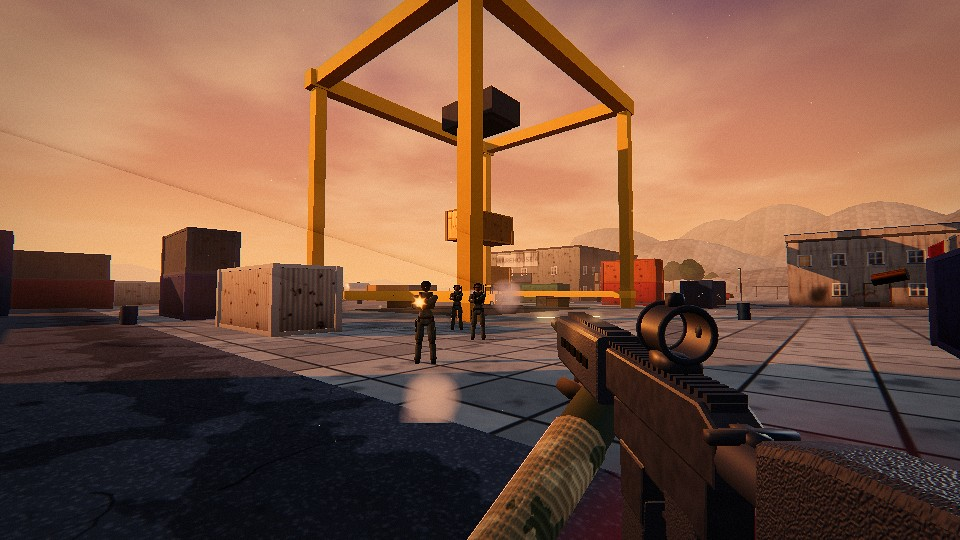
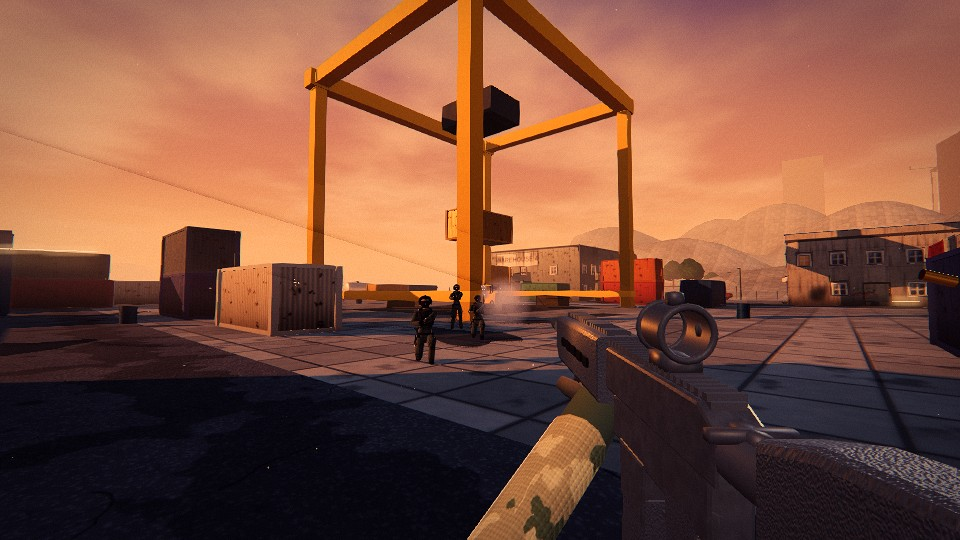
FRONTLINE OPS realism pass 2: per-map lighting and grading, contact shadows, skylines, set dressing, lit viewmodel, casings settle on roofs
Claude-Session: https://claude.ai/code/session_01Gnp6614uCdyBymSEsrLhJS

diff --git a/frontline/dress.js b/frontline/dress.js
@@ -1,0 +1,103 @@
+// FRONTLINE OPS — set dressing and atmosphere for MEDIUM and HIGH (LOW never builds any of this).
+// Everything here is visual only (no collision), generated from the level layout with its own seeded
+// random stream, and drawn as a handful of instanced meshes: window surrounds, balconies, wall AC units,
+// downpipes, blade signs, overhead cables, street debris, weeds / snow drifts, puddles, potted plants,
+// distant skyline silhouettes and two layered haze rings. Also bakes the ground contact-shadow map.
+import * as THREE from '../vendor/three.module.min.js';
+import {merge,M4} from './world.js';
+const V=THREE.Vector3,PI=Math.PI;
+const BX=(w,h,d)=>new THREE.BoxGeometry(w,h,d),CY=(rt,rb,h,s=8)=>new THREE.CylinderGeometry(rt,rb,h,s,1);
+const std=o=>new THREE.MeshStandardMaterial(o);
+const ROT={n:PI,s:0,w:-PI/2,e:PI/2},NRM={n:[0,-1],s:[0,1],w:[-1,0],e:[1,0]};
+
+/* ---------- ground contact shadows: blurred footprints of everything standing on the ground ---------- */
+export function contactMap(L){const S=512,ext=L.half+6,k=S/(ext*2),c=document.createElement('canvas');c.width=c.height=S;const x=c.getContext('2d');
+ x.fillStyle='#fff';x.fillRect(0,0,S,S);const P=(v)=>(v+ext)*k;
+ const draw=(blur,grow,alpha)=>{x.filter=`blur(${blur}px)`;for(const b of L.boxes){if(!b.solid&&!b.ao&&b.mat!=='sandbag')continue;if(b.y0>.6||b.y1-b.y0<.25||b.mat==='fence'||b.mat==='lamp')continue;
+   const h=Math.min(1,(b.y1-b.y0)/2.2);x.fillStyle=`rgba(0,0,0,${alpha*(.45+.55*h)})`;x.fillRect(P(b.x0-grow),P(b.z0-grow),(b.x1-b.x0+grow*2)*k,(b.z1-b.z0+grow*2)*k);}
+  for(const p of L.props){if(p.y>.3)continue;const r=({truck:2.2,tanker:2.2,jeep:1.5,car:1.4,pickup:1.6,wreck:1.4,forklift:1,fueltank:1.6,dumpster:1,gen:1,crateL:.9,stall:1.2,palm:.5,tree:.6,pine:.6,radome:5,cable:.8})[p.kind];
+   if(!r)continue;x.fillStyle=`rgba(0,0,0,${alpha*.7})`;x.beginPath();x.ellipse(P(p.x),P(p.z),(r+grow)*k*(p.s||1),(r*(p.kind.match(/truck|tanker|jeep|car|pickup|wreck/)?2:1)+grow)*k*(p.s||1),-(p.rot||0),0,7);x.fill();}};
+ draw(10,.5,.32);draw(3,.08,.42);x.filter='none';
+ const t=new THREE.CanvasTexture(c);t.colorSpace=THREE.NoColorSpace;t.wrapS=t.wrapT=THREE.ClampToEdgeWrapping;t.userData={ext};return t;}
+// patch a material so its indirect light (and a little direct) is occluded by the contact map
+export function withContact(m,tex,k=1){const prev=m.onBeforeCompile;m.onBeforeCompile=(s,r)=>{if(prev)prev(s,r);s.uniforms.uCt={value:tex};s.uniforms.uCtE={value:tex.userData.ext};s.uniforms.uCtK={value:k};
+  s.vertexShader=s.vertexShader.replace('#include <common>','#include <common>\nvarying vec2 vCtP;').replace('#include <worldpos_vertex>','#include <worldpos_vertex>\n{vec4 cw=modelMatrix*vec4(transformed,1.);vCtP=cw.xz;}');
+  s.fragmentShader=s.fragmentShader.replace('#include <common>','#include <common>\nvarying vec2 vCtP;uniform sampler2D uCt;uniform float uCtE,uCtK;')
+   .replace('#include <aomap_fragment>',`#include <aomap_fragment>
+ {vec2 cu=(vCtP+uCtE)/(2.*uCtE);float ins=step(0.,cu.x)*step(cu.x,1.)*step(0.,cu.y)*step(cu.y,1.);float ct=mix(1.,texture2D(uCt,vec2(cu.x,1.-cu.y)).r,ins*uCtK);
+  reflectedLight.indirectDiffuse*=ct;reflectedLight.indirectSpecular*=ct;reflectedLight.directDiffuse*=mix(1.,ct,.45);}`);};
+ const pk=m.customProgramCacheKey?m.customProgramCacheKey.bind(m):()=>'';m.customProgramCacheKey=()=>pk()+'ct';return m;}
+
+/* ---------- the dressing itself ---------- */
+export function buildDressing(L,TX,q,look){const G=new THREE.Group();let s=(L._s||7)*31+17;const rnd=()=>{s=(s*16807)%2147483647;return s/2147483647;};
+ const id=L.id,snow=id==='northwatch',desert=id==='sandgate',town=id==='oldquarter',port=id==='harbor';const hi=q>=2;
+ const inst=(geo,mat,list,cast=true)=>{if(!list.length)return null;const im=new THREE.InstancedMesh(geo,mat,list.length),c=new THREE.Color();list.forEach((p,i)=>{im.setMatrixAt(i,p.m);if(p.c!=null)im.setColorAt(i,c.set(p.c));else im.setColorAt(i,c.set(0xffffff));});im.castShadow=cast;im.receiveShadow=true;G.add(im);return im;};
+ // wall frame: local +z is out of the wall, origin on the wall centre line at the window's sill height
+ const onWall=(w,dx,dy,dz,rx=0,ry=0,rz=0,sx=1,sy=1,sz=1)=>{const r=ROT[w.side];const m=M4(w.x,w.y,w.z,0,r,0);return m.multiply(M4(dx,dy,dz,rx,ry,rz,sx,sy,sz));};
+ /* window surrounds: jambs + lintel + inner reveal so every opening reads with depth */
+ const trimC=desert?[0xe8dcc4,0xd8c8a8,0x8a6a4a]:town?[0xf2ece0,0x5a4030,0x3a4a3a,0xe8e0d0]:port?[0x8a9098,0xd8d8d0]:[0xe8ecf0,0x6a7078];
+ const frame=merge([{geo:BX(.11,1.62,.13),m:M4(-.68,.7,.21)},{geo:BX(.11,1.62,.13),m:M4(.68,.7,.21)},{geo:BX(1.6,.14,.15),m:M4(0,1.5,.22)},{geo:BX(1.3,.05,.06),m:M4(0,.02,.2)}]);
+ const fl=[],bal=[],acs=[],sigs=[];
+ for(const w of L.windows){fl.push({m:onWall(w,0,0,0),c:trimC[(Math.abs(w.x*7+w.z*13)|0)%trimC.length]});
+  const r=rnd();if(w.y>3&&(desert||town)&&r<.22)bal.push({m:onWall(w,0,-.06,0),c:town?0x2a2c2e:0x4a3a2c});
+  else if(!snow&&r>.82)acs.push({m:onWall(w,(rnd()-.5)*.3,w.y>3?-.75:-.85,0),c:0xd8d8d2});}
+ inst(frame,std({map:TX.concrete.map,roughness:.85,color:0xffffff}),fl,true);
+ if(bal.length){const bp=[{geo:BX(2,.1,.9),m:M4(0,0,.6)},{geo:BX(2,.05,.05),m:M4(0,1.02,1.03)},{geo:BX(.05,.05,.86),m:M4(-.98,1.02,.6)},{geo:BX(.05,.05,.86),m:M4(.98,1.02,.6)}];
+  for(let i=0;i<=12;i++)bp.push({geo:BX(.025,.97,.025),m:M4(-.97+i*1.94/12,.52,1.03)});for(const x of[-.97,.97])for(let i=1;i<4;i++)bp.push({geo:BX(.025,.97,.025),m:M4(x,.52,.2+i*.2)});
+  bp.push({geo:BX(.08,.12,.6),m:M4(-.8,-.1,.45,-.5)},{geo:BX(.08,.12,.6),m:M4(.8,-.1,.45,-.5)});inst(merge(bp),std({color:0xffffff,roughness:.55,metalness:.6}),bal,true);}
+ if(acs.length){const ap=[{geo:BX(.82,.56,.4),m:M4(0,0,.36)},{geo:new THREE.CylinderGeometry(.2,.2,.02,16),m:M4(.12,0,.565,PI/2),c:0x2a2a2a},{geo:BX(.06,.06,.4),m:M4(-.3,-.31,.32),c:0x555555},{geo:BX(.06,.06,.4),m:M4(.3,-.31,.32),c:0x555555},{geo:CY(.012,.012,1.2,4),m:M4(-.36,-.8,.2),c:0x9a9a9a}];
+  inst(merge(ap),std({map:TX.metal.map,roughness:.5,metalness:.35,vertexColors:true}),acs,true);}
+ /* per building: downpipes at corners, blade signs, wall-base debris and weeds/drifts, cables to the neighbour across the street */
+ const pipes=[],rubble=[],bags=[],planks=[],weeds=[],drifts=[],pots=[],puddles=[],wires=[];
+ for(const b of L.blds){const h=b.h;for(const[cx,cz,sx,sz]of[[b.x0,b.z0,-1,-1],[b.x1,b.z0,1,-1],[b.x0,b.z1,-1,1],[b.x1,b.z1,1,1]])if(rnd()<.55)pipes.push({m:M4(cx+sx*.22,0,cz+sz*.22,0,0,0,1,h+.2,1),c:port||snow?0x8a9096:0x9a8a78});
+  for(const side of['n','s','w','e']){const[nx,nz]=NRM[side],along=side==='n'||side==='s',a0=along?b.x0:b.z0,a1=along?b.x1:b.z1,fx=side==='w'?b.x0:side==='e'?b.x1:0,fz=side==='n'?b.z0:side==='s'?b.z1:0;
+   const at=(t,o)=>along?[t,fz+nz*o]:[fx+nx*o,t];
+   if(!snow&&h>3.5&&rnd()<.4){const t=a0+1.5+rnd()*(a1-a0-3),[x,z]=at(t,0);sigs.push({m:M4(x,2.95,z,0,ROT[side],0).multiply(M4(0,0,.15)),c:[0xc8402a,0x2a5a8a,0xe8c040,0x2a7a5a,0xe8e4d8][(rnd()*5)|0]});}
+   for(let t=a0+.6;t<a1-.6;t+=.7+rnd()*1.4){const o=.4+rnd()*.7,[x,z]=at(t,o);if(!L.free(x,z))continue;const r=rnd();
+    if(snow){if(r<.55)drifts.push({m:M4(x+nx*.1,0,z+nz*.1,0,rnd()*6,0,.6+rnd()*1.1,.18+rnd()*.25,.5+rnd()*.6)});continue;}
+    if(r<.3)rubble.push({m:M4(x,.04,z,rnd()*3,rnd()*6,rnd()*3,.12+rnd()*.22,.07+rnd()*.12,.12+rnd()*.2),c:[0xb8b0a4,0x8a8278,0xa89070,0x6a6058][(rnd()*4)|0]});
+    else if(r<.42){const k=.24+rnd()*.14;bags.push({m:M4(x,k*.6,z,0,rnd()*6,(rnd()-.5)*.4,k,k*.85,k*1.1),c:[0x1a1c1a,0x2a3a2a,0x3a3a3c,0x5a5040][(rnd()*4)|0]});}
+    else if(r<.5)planks.push({m:M4(x,.03+rnd()*.05,z,(rnd()-.5)*.15,rnd()*6,(rnd()-.5)*.2,.6+rnd()*.8,1,1),c:[0x8a6a48,0x6a5038,0xa8a49c][(rnd()*3)|0]});
+    else if(r<.85)weeds.push({m:M4(x+nx*-.15,0,z+nz*-.15,0,rnd()*3,0,.5+rnd()*.7,.5+rnd()*.9,.5+rnd()*.7)});
+    else if(r<.9&&(desert||town)&&o<.8)pots.push({m:M4(x,0,z,0,rnd()*6,0,.8+rnd()*.5,.8+rnd()*.5,.8+rnd()*.5),c:[0xa8583a,0xc87a4a,0x8a4a30,0xd8d0c0][(rnd()*4)|0]});}}
+  // cable to a neighbouring building across a street
+  if(rnd()<.6)for(const o of L.blds){if(o===b||wires.length>=(hi?40:24))break;const gx=Math.max(o.x0-b.x1,b.x0-o.x1),gz=Math.max(o.z0-b.z1,b.z0-o.z1);
+   if(Math.max(gx,gz)<4||Math.max(gx,gz)>16||Math.min(gx,gz)>-2)continue;if(rnd()<.6)continue;const y=Math.min(b.h,o.h)-.5-rnd()*1.2;
+   const ax=gx>gz?(o.x0>b.x1?b.x1:b.x0):Math.max(b.x0,o.x0)+rnd()*Math.max(.5,Math.min(b.x1,o.x1)-Math.max(b.x0,o.x0));const az=gx>gz?Math.max(b.z0,o.z0)+rnd()*Math.max(.5,Math.min(b.z1,o.z1)-Math.max(b.z0,o.z0)):(o.z0>b.z1?b.z1:b.z0);
+   const bx=gx>gz?(o.x0>b.x1?o.x0:o.x1):ax+(rnd()-.5)*3,bz=gx>gz?az+(rnd()-.5)*3:(o.z0>b.z1?o.z0:o.z1);wires.push([ax,y,az,bx,y+(rnd()-.5)*.6,bz]);}}
+ inst(CY(.055,.055,1,6).translate(0,.5,0),std({color:0xffffff,roughness:.45,metalness:.6}),pipes,true);
+ if(sigs.length){const sg=merge([{geo:BX(.05,.05,.7),m:M4(0,.42,.35),c:0x222222},{geo:BX(.06,.62,.9),m:M4(0,0,.6)},{geo:BX(.08,.66,.04),m:M4(0,0,1.06),c:0x2a2a2a}]);
+  const sm=std({map:TX.stripe,roughness:.6,vertexColors:true,emissive:look.lampsOn?0x553311:0});inst(sg,sm,sigs,true);}
+ const rock=new THREE.IcosahedronGeometry(1,0);
+ inst(rock,std({map:TX.concrete.map,normalMap:TX.concrete.normalMap,roughness:.95}),rubble,false);
+ inst(new THREE.SphereGeometry(1,8,6),std({color:0xffffff,roughness:.32,metalness:0}),bags,false);
+ inst(BX(1,.03,.14),std({map:TX.wood.map,roughness:.9}),planks,false);
+ if(weeds.length&&TX.grassCard){const g=new THREE.PlaneGeometry(.7,.5);g.translate(0,.24,0);const cross=merge([{geo:g},{geo:g.clone().rotateY(PI/2)}]);const n=cross.attributes.normal;for(let i=0;i<n.count;i++)n.setXYZ(i,0,1,0);
+  inst(cross,std({map:TX.grassCard,alphaTest:.45,side:THREE.DoubleSide,roughness:1,color:new THREE.Color(desert?0xb8a870:L.grassCol??0x9aa878)}),weeds,false);}
+ if(drifts.length)inst(new THREE.SphereGeometry(1,10,5,0,PI*2,0,PI/2),std({color:0xf2f6ff,roughness:.75}),drifts,false);
+ if(pots.length){inst(CY(.26,.18,.45,10).translate(0,.22,0),std({color:0xffffff,roughness:.8}),pots,true);inst(new THREE.IcosahedronGeometry(.42,1).scale(1,1.1,1).translate(0,.75,0),std({map:TX.leaf,color:desert?0x7a9a4a:0x5a8a4a,roughness:.9}),pots.map(p=>({m:p.m})),true);}
+ /* puddles: wet patches on the street (town after rain, harbour, slush in the snow) */
+ if(!desert){const nP=hi?34:20;for(let i=0;i<nP*4&&puddles.length<nP;i++){const x=(rnd()*2-1)*L.half*.9,z=(rnd()*2-1)*L.half*.9;if(!L.free(x,z)||!L.free(x+1.5,z)||!L.free(x-1.5,z))continue;puddles.push({m:M4(x,.05+i*.0001,z,-PI/2,0,rnd()*6,1.2+rnd()*2.4,.8+rnd()*1.6,1)});}
+  const pg=new THREE.CircleGeometry(1,20);const pp=pg.attributes.position;for(let i=1;i<pp.count;i++){const a=Math.atan2(pp.getY(i),pp.getX(i)),r=1+.22*Math.sin(a*3+1)+.12*Math.sin(a*5+2);pp.setXY(i,pp.getX(i)*r,pp.getY(i)*r);}
+  const pm=std({color:snow?0x6a7480:0x2a2c30,roughness:.04,metalness:0,transparent:true,opacity:snow?.55:.78,depthWrite:false,polygonOffset:true,polygonOffsetFactor:-4,envMapIntensity:1.6});
+  const im=inst(pg,pm,puddles,false);if(im)im.renderOrder=1;}
+ /* overhead cables between buildings */
+ if(wires.length){const parts=[];for(const[ax,ay,az,bx,by,bz]of wires){const pts=[];for(let i=0;i<=10;i++){const t=i/10;pts.push(new V(ax+(bx-ax)*t,ay+(by-ay)*t-Math.sin(t*PI)*(.5+Math.hypot(bx-ax,bz-az)*.04),az+(bz-az)*t));}
+   parts.push({geo:new THREE.TubeGeometry(new THREE.CatmullRomCurve3(pts),12,.016,4,false)});}const me=new THREE.Mesh(merge(parts),std({color:0x161616,roughness:.6}));me.castShadow=hi;G.add(me);}
+ /* distant skyline silhouettes past the terrain, sat on the terrain height */
+ const sk=[],tY=L.tY||(()=>0);const ring=(n,r0,r1,fn)=>{for(let i=0;i<n;i++){const a=rnd()*PI*2,r=r0+rnd()*(r1-r0),x=Math.cos(a)*r,z=Math.sin(a)*r;if(L.terrain&&L.terrain.seaSide&&L.terrain.seaSide(x,z))continue;fn(x,tY(x,z)-1,z,a);}};
+ if(desert){ring(80,210,320,(x,y,z,a)=>{const w=8+rnd()*16,h=4+rnd()*8;sk.push({geo:BX(w,h,8+rnd()*12),m:M4(x,y+h/2,z,0,a,0)});if(rnd()<.1){sk.push({geo:CY(1.4,1.8,h+16,8),m:M4(x+4,y+(h+16)/2,z,0,a,0)},{geo:new THREE.SphereGeometry(2.4,10,6),m:M4(x+4,y+h+16,z)});}if(rnd()<.14)sk.push({geo:new THREE.SphereGeometry(w*.35,12,6,0,PI*2,0,PI/2),m:M4(x,y+h,z)});});}
+ else if(port){ring(70,240,360,(x,y,z,a)=>{if(x<20)return;const r=rnd();if(r<.15){const h=34+rnd()*16;for(const s of[-1,1])sk.push({geo:BX(1.6,h,1.6),m:M4(x,y+h/2,z,0,a,0).multiply(M4(s*5,0,0))});sk.push({geo:BX(12,2,2),m:M4(x,y+h,z,0,a,0)},{geo:BX(2,2,34),m:M4(x,y+h+2,z,0,a,0).multiply(M4(0,0,6))});}
+   else if(r<.55){const h=18+rnd()*40;sk.push({geo:BX(12+rnd()*10,h,12+rnd()*10),m:M4(x,y+h/2,z,0,a,0)});}else{const h=6+rnd()*8;sk.push({geo:BX(20+rnd()*20,h,12+rnd()*14),m:M4(x,y+h/2,z,0,a,0)});}});}
+ else if(town){ring(110,170,280,(x,y,z,a)=>{const w=8+rnd()*8,d=6+rnd()*6,h=7+rnd()*7,g=new THREE.CylinderGeometry(0,w*.75,w*.45,4,1);g.rotateY(PI/4);g.scale(1,1,d/w);
+   sk.push({geo:BX(w,h,d),m:M4(x,y+h/2,z,0,a,0)},{geo:g,m:M4(x,y+h+w*.22,z,0,a,0)});if(rnd()<.05){sk.push({geo:BX(4,26,4),m:M4(x,y+13,z,0,a,0)},{geo:new THREE.ConeGeometry(3,12,4),m:M4(x,y+32,z,0,a+PI/4,0)});}});}
+ else ring(40,180,300,(x,y,z,a)=>{if(rnd()<.2){sk.push({geo:CY(.4,.6,30,5),m:M4(x,y+15,z)});}else{const h=4+rnd()*4;sk.push({geo:BX(10+rnd()*10,h,8),m:M4(x,y+h/2,z,0,a,0)});}});
+ if(sk.length){const fc=new THREE.Color(look.fog.c),fa=new THREE.Color(L.terrain&&L.terrain.far?L.terrain.far.c:look.fog.c);const me=new THREE.Mesh(merge(sk),std({color:fa.lerp(fc,.3).multiplyScalar(look.lampsOn?.45:.8),roughness:1}));G.add(me);}
+ /* aerial perspective: two haze bands hugging the horizon, brighter toward the sun */
+ const sd=new V(...look.sun.dir).normalize();const hz=(R,H,k)=>{const g=new THREE.CylinderGeometry(R,R,H,64,1,true);g.translate(0,H/2-6,0);
+  const m=new THREE.ShaderMaterial({transparent:true,depthWrite:false,side:THREE.BackSide,fog:false,uniforms:{uF:{value:new THREE.Color(look.fog.c)},uS:{value:new THREE.Color(look.sun.c)},uD:{value:sd},uK:{value:k}},
+   vertexShader:'varying vec3 vW;varying float vY;void main(){vY=uv.y;vec4 w=modelMatrix*vec4(position,1.);vW=w.xyz;gl_Position=projectionMatrix*viewMatrix*w;}',
+   fragmentShader:'uniform vec3 uF,uS,uD;uniform float uK;varying vec3 vW;varying float vY;void main(){vec3 d=normalize(vW-cameraPosition);float sun=pow(max(0.,dot(normalize(d.xz),normalize(uD.xz))),6.)*(1.-uD.y*.8);float a=pow(1.-smoothstep(0.,1.,vY),1.6)*uK;gl_FragColor=vec4(mix(uF,uF*.6+uS*.7,sun*.6),a);}'});
+  const me=new THREE.Mesh(g,m);me.renderOrder=2;me.frustumCulled=false;G.add(me);};
+ const hk=look.haze??1;hz(135,34,.5*hk);hz(320,90,.62*hk);
+ return G;}

diff --git a/frontline/game.js b/frontline/game.js
@@ -26,9 +26,9 @@ const scene=new THREE.Scene();const cam=new THREE.PerspectiveCamera(FOV,1,.05,15
 const vmScene=new THREE.Scene(),vmCam=new THREE.PerspectiveCamera(56,1,.01,10);
 const hemi=new THREE.HemisphereLight(0xffffff,0x202020,.6),sun=new THREE.DirectionalLight(0xffffff,2);sun.castShadow=true;scene.add(hemi,sun,sun.target);
 const bounce=new THREE.DirectionalLight(0xffffff,0);scene.add(bounce,bounce.target);// sunlit ground bouncing back up into walls and faces (MEDIUM+)
-const vmHemi=new THREE.HemisphereLight(0xffffff,0x222222,.8),vmKey=new THREE.DirectionalLight(0xffffff,1.4),vmFlash=new THREE.PointLight(0xffaa55,0,3,1.5),vmRim=new THREE.DirectionalLight(0xffffff,1);vmKey.position.set(-1,2,1);vmFlash.position.set(.1,-.05,-.7);vmRim.position.set(2,.5,-1.5);vmScene.add(vmHemi,vmKey,vmFlash,vmRim);
+const vmHemi=new THREE.HemisphereLight(0xffffff,0x222222,.8),vmKey=new THREE.DirectionalLight(0xffffff,1.4),vmFlash=new THREE.PointLight(0xffaa55,0,3,1.5),vmRim=new THREE.DirectionalLight(0xffffff,1);vmKey.position.set(-1,2,1);vmFlash.position.set(.1,-.05,-.7);vmRim.position.set(2,.5,-1.5);const vmFill=new THREE.DirectionalLight(0xffffff,.7);vmFill.position.set(.9,-.25,1);const WHITE=new THREE.Color(1,1,1);vmScene.add(vmHemi,vmKey,vmFlash,vmRim,vmFill);
 const TX=makeTextures();makeKit(TX);
-const fx=new FX(scene,TX);const snd=new Sound();fx.brass.onBounce=(q,small)=>snd.play('clink',small?1.5:.7,panOf(q));const VM=buildViewmodel(TX);vmCam.add(VM.root);vmScene.add(vmCam);
+const fx=new FX(scene,TX);const snd=new Sound();fx.brass.onBounce=(q,small)=>snd.play('clink',small?1.5:.7,panOf(q));fx.brass.floor=(x,z,y)=>G.level?G.level.ground(x,z,y,.03):0;const VM=buildViewmodel(TX);vmCam.add(VM.root);vmScene.add(vmCam);
 const nadeGeo=new THREE.SphereGeometry(.05,10,8),nadeMat=new THREE.MeshStandardMaterial({color:0x4a5034,roughness:.6}),smokeMat=new THREE.MeshStandardMaterial({color:0x8a9098,roughness:.5});
 const markRing=new THREE.Mesh(new THREE.RingGeometry(3.2,3.7,48),new THREE.MeshBasicMaterial({color:new THREE.Color(5,.6,.2),transparent:true,opacity:.85,depthWrite:false,side:THREE.DoubleSide,fog:false}));markRing.rotation.x=-PI/2;markRing.visible=false;scene.add(markRing);
 const laser=new THREE.Mesh(new THREE.CylinderGeometry(.012,.012,1,6),new THREE.MeshBasicMaterial({color:new THREE.Color(6,.4,.2),transparent:true,opacity:.7,depthWrite:false}));laser.visible=false;scene.add(laser);
@@ -60,13 +60,13 @@ function loadMap(id){let L=levels[id];if(!L)L=levels[id]=MAPS[id]();if(G.level==
  if(G.level&&built[G.level.id])scene.remove(built[G.level.id].group);
  if(!built[id]||built[id].q!==gfx){if(built[id])disposeGroup(built[id].group);built[id]=buildScene(L,TX,gfx);built[id].q=gfx;}
  scene.add(built[id].group);G.level=L;look=L.look;
- scene.fog=new THREE.FogExp2(look.fog.c,look.fog.d);scene.background=new THREE.Color(look.fog.c);hemi.color.set(look.hemi.s);hemi.groundColor.set(look.hemi.g);hemi.intensity=look.hemi.i;sun.color.set(look.sun.c);sun.intensity=look.sun.i;
+ scene.fog=new THREE.FogExp2(look.fog.c,look.fog.d);scene.background=new THREE.Color(look.fog.c);hemi.color.set(look.hemi.s);hemi.groundColor.set(look.hemi.g);hemi.intensity=look.hemi.i*(gfx>0?look.hk??1:1);sun.color.set(look.sun.c);sun.intensity=look.sun.i*(gfx>0?look.kk??1:1);
  G.sunDir=new V(...look.sun.dir).normalize();sun.shadow.bias=-.0005;sun.shadow.normalBias=.04;
  bounce.color.set(look.sky.ground??look.fog.c).lerp(new THREE.Color(look.sun.c),.3);bounce.intensity=gfx>0?look.sun.i*.22*(look.bounce??1):0;bounce.position.set(-G.sunDir.x,-.35,-G.sunDir.z).multiplyScalar(50);bounce.target.position.set(0,0,0);
  if(sky)scene.remove(sky);sky=makeSky(look);scene.add(sky);
- if(!envCache[id]){const s=new THREE.Scene();s.add(makeSky(look));s.add(new THREE.HemisphereLight(look.hemi.s,look.hemi.g,1));const pm=new THREE.PMREMGenerator(R);envCache[id]=pm.fromScene(s,.04).texture;pm.dispose();}
- scene.environment=envCache[id];scene.environmentIntensity=look.env;vmScene.environment=envCache[id];vmScene.environmentIntensity=1.25;
- vmHemi.color.set(look.hemi.s);vmHemi.groundColor.set(look.hemi.g);vmHemi.intensity=look.hemi.i*.8+.25;vmKey.color.set(look.sun.c);vmKey.intensity=look.sun.i*.7;vmRim.intensity=look.sun.i*.45;vmKey.position.copy(G.sunDir).setY(Math.max(.4,G.sunDir.y));vmRim.color.set(look.hemi.s);
+ if(!envCache[id]){const s=new THREE.Scene();s.add(makeSky(look));s.add(new THREE.HemisphereLight(look.hemi.s,look.hemi.g,1));{const sd=new V(...look.sun.dir).normalize();const sm=new THREE.Mesh(new THREE.SphereGeometry(4,12,8),new THREE.MeshBasicMaterial({color:new THREE.Color(look.sun.c).multiplyScalar(look.lampsOn?3:9)}));sm.position.copy(sd).multiplyScalar(60);s.add(sm);const gd=new THREE.Mesh(new THREE.CircleGeometry(90,24),new THREE.MeshBasicMaterial({color:new THREE.Color(look.sky.ground??look.fog.c).multiplyScalar(.55)}));gd.rotation.x=-PI/2;gd.position.y=-6;s.add(gd);}const pm=new THREE.PMREMGenerator(R);envCache[id]=pm.fromScene(s,.04).texture;pm.dispose();}
+ scene.environment=envCache[id];scene.environmentIntensity=look.env;vmScene.environment=envCache[id];vmScene.environmentIntensity=1.45;
+ vmHemi.color.set(look.hemi.s).lerp(WHITE,.35);vmHemi.groundColor.set(look.hemi.g).lerp(WHITE,.2);vmHemi.intensity=Math.max(1.15,look.hemi.i*.8+.3);vmKey.color.set(look.sun.c).lerp(WHITE,.55);vmKey.intensity=Math.min(3,Math.max(2.2,look.sun.i*.75));vmKey.position.set(-.55,1.2,.9);vmRim.intensity=Math.max(1.2,look.sun.i*.5);vmRim.position.set(1.6,.7,-1.4);vmRim.color.set(look.hemi.s).lerp(WHITE,.3);vmFill.color.set(look.sky.ground??look.fog.c).lerp(WHITE,.5);vmFill.intensity=.7;
  fx.dustK=look.lampsOn?.75:1.05;fx.ground=id==='sandgate'?'sand':id==='northwatch'?'snow':'concrete';fx.smoke.U.uFog.value.set(look.fog.c);fx.smoke.U.uFogD.value=look.fog.d;fx.smoke.U.uLight.value.set(look.hemi.s).lerp(new THREE.Color(look.sun.c),.5).multiplyScalar(look.lampsOn?.7:1);
  R.toneMappingExposure=look.exp;fxStack=null;HUD.mapChanged(G);return L;}
 function disposeGroup(g){g.traverse(o=>{if(o.geometry)o.geometry.dispose();});}
@@ -454,11 +454,11 @@ const render={vis(dt){updateViewmodel(dt);updateCamera(dt);updateShadow();}};
 /* ================= rendering ================= */
 class VMPass extends Pass{constructor(){super();this.needsSwap=false;}render(r,wb,rb){if(!VM.root.visible)return;const ac=r.autoClear;r.autoClear=false;r.setRenderTarget(this.renderToScreen?null:rb);r.clearDepth();r.render(vmScene,vmCam);r.autoClear=ac;}}
 // filmic finish (MEDIUM+): light unsharp mask so surface detail reads, gentle S-curve, split toning (cool shadows / warm highlights)
-class FinishPass extends Pass{constructor(){super();this.U={tDiffuse:{value:null},res:{value:new THREE.Vector2(1,1)},sharp:{value:.35},con:{value:.18},sh:{value:new THREE.Color(.94,.98,1.06)},hi:{value:new THREE.Color(1.05,1.01,.95)}};
+class FinishPass extends Pass{constructor(){super();this.U={tDiffuse:{value:null},res:{value:new THREE.Vector2(1,1)},sharp:{value:.35},con:{value:.18},sh:{value:new THREE.Color(.94,.98,1.06)},hi:{value:new THREE.Color(1.05,1.01,.95)},lift:{value:new THREE.Color(0,0,0)},gam:{value:1}};
   this.q=new FullScreenQuad(new THREE.ShaderMaterial({uniforms:this.U,vertexShader:'varying vec2 vUv;void main(){vUv=uv;gl_Position=vec4(position.xy,0.,1.);}',
-  fragmentShader:`uniform sampler2D tDiffuse;uniform vec2 res;uniform float sharp,con;uniform vec3 sh,hi;varying vec2 vUv;
+  fragmentShader:`uniform sampler2D tDiffuse;uniform vec2 res;uniform float sharp,con,gam;uniform vec3 sh,hi,lift;varying vec2 vUv;
   void main(){vec2 px=1./res;vec3 c=texture2D(tDiffuse,vUv).rgb;vec3 n=(texture2D(tDiffuse,vUv+vec2(px.x,0.)).rgb+texture2D(tDiffuse,vUv-vec2(px.x,0.)).rgb+texture2D(tDiffuse,vUv+vec2(0.,px.y)).rgb+texture2D(tDiffuse,vUv-vec2(0.,px.y)).rgb)*.25;
-   c=max(c+(c-n)*sharp,0.);c=clamp(c,0.,1.);c=mix(c,c*c*(3.-2.*c),con);float l=dot(c,vec3(.299,.587,.114));c*=mix(sh,hi,smoothstep(.05,.85,l));gl_FragColor=vec4(c,1.);}`}));}
+   c=max(c+(c-n)*sharp,0.);c=clamp(c,0.,1.);c=mix(c,c*c*(3.-2.*c),con);float l=dot(c,vec3(.299,.587,.114));c*=mix(sh,hi,smoothstep(.05,.85,l));c=pow(max(c,0.),vec3(gam));c+=lift*(1.-c);gl_FragColor=vec4(c,1.);}`}));}
  setSize(w,h){this.U.res.value.set(w,h);}
  render(r,wb,rb){this.U.tDiffuse.value=rb.texture;r.setRenderTarget(this.renderToScreen?null:wb);this.q.render(r);}}
 const POST={bloom:.38,bloomThreshold:.94,bloomRadius:.42,vignette:.26,grain:.025,aoStrength:.85};
@@ -468,7 +468,7 @@ G.applyQuality=applyQuality;
 bindQualityKey(()=>gfx,q=>applyQuality(q));
 function renderFrame(){const w=innerWidth,h=innerHeight;if(R.domElement.width!==Math.floor(w*R.getPixelRatio())||R.domElement.height!==Math.floor(h*R.getPixelRatio()))R.setSize(w,h,false);
  cam.aspect=w/h;cam.updateProjectionMatrix();vmCam.aspect=w/h;vmCam.updateProjectionMatrix();fx.sparks.U.uScale.value=fx.smoke.U.uScale.value=h*R.getPixelRatio()/(2*Math.tan(cam.fov*PI/360));
- const key=w+'x'+h;if(!fxStack){fxStack=cinematic(R,scene,cam,{...POST,exposure:look.exp,tint:look.tint,saturation:look.sat,quality:gfx});if(fxStack.composer){fxStack.composer.insertPass(new VMPass(),fxStack.ao?2:1);const fin=new FinishPass();const f=look.fin||{};fin.U.sharp.value=gfx>=2?(f.sharp??.38):(f.sharp??.38)*.7;fin.U.con.value=f.con??.18;if(f.sh)fin.U.sh.value.set(...f.sh);if(f.hi)fin.U.hi.value.set(...f.hi);fxStack.composer.addPass(fin);fxStack.fin=fin;}fxSize='';}
+ const key=w+'x'+h;if(!fxStack){fxStack=cinematic(R,scene,cam,{...POST,exposure:look.exp,tint:look.tint,saturation:look.sat,quality:gfx});if(fxStack.composer){fxStack.composer.insertPass(new VMPass(),fxStack.ao?2:1);const fin=new FinishPass();const f=look.fin||{};fin.U.sharp.value=gfx>=2?(f.sharp??.38):(f.sharp??.38)*.7;fin.U.con.value=f.con??.18;if(f.sh)fin.U.sh.value.set(...f.sh);if(f.hi)fin.U.hi.value.set(...f.hi);if(f.lift)fin.U.lift.value.set(...f.lift);fin.U.gam.value=f.gam??1;fxStack.composer.addPass(fin);fxStack.fin=fin;}fxSize='';}
  if(fxSize!==key){fxSize=key;fxStack.setSize(w,h);if(fxStack.fin)fxStack.fin.setSize(w*R.getPixelRatio(),h*R.getPixelRatio());}
  if(fxStack.grade){const hp=P&&G.app==='play'?P.hp/P.maxHp:1;fxStack.grade.uniforms.sat.value=look.sat*(.4+.6*Math.min(1,hp*1.6));}
  if(fxStack.composer)fxStack.render();else{R.autoClear=true;R.render(scene,cam);R.autoClear=false;R.clearDepth();if(VM.root.visible)R.render(vmScene,vmCam);R.autoClear=true;}}

diff --git a/frontline/world.js b/frontline/world.js
@@ -1,6 +1,7 @@
 // FRONTLINE OPS — level geometry (collision boxes, hitscan raycasts, nav grid + A*, cover points) and scene construction
 // (merged architecture with trims/windows/roofs, instanced props + vehicles + trees, terrain, water, sky).
 import * as THREE from '../vendor/three.module.min.js';
+import {buildDressing,contactMap,withContact} from './dress.js';
 
 export const STEP=.5,MANTLE=1.3;
 const V=THREE.Vector3,PI=Math.PI;
@@ -207,8 +208,9 @@ function weather(m,k,L){const dirt=new THREE.Color(L.look.grime??0x5a4c3c);m.onB
  float wxBase=(1.-smoothstep(0.,.55+wxMac*1.3,vWxP.y))*step(abs(vWxN.y),.5);
  float wxSt=smoothstep(.64,.92,wxf(vec2(wxAlong*2.3,vWxP.y*.11)))*smoothstep(.2,1.4,vWxP.y)*step(abs(vWxN.y),.5);
  float wxTop=step(.5,vWxN.y)*smoothstep(.45,.85,wxMac)*.5;
- diffuseColor.rgb*=mix(1.,.82+.3*wxMac,uWxK);vec3 wxG=mix(vec3(dot(uWxC,vec3(.33))),uWxC,.55)*1.6;diffuseColor.rgb=mix(diffuseColor.rgb,diffuseColor.rgb*wxG,clamp((wxBase*.7+wxSt*.32+wxTop)*uWxK,0.,.8));`)
-  .replace('#include <roughnessmap_fragment>','#include <roughnessmap_fragment>\n roughnessFactor=clamp(roughnessFactor+(wxBase*.08-wxSt*.12)*uWxK,.04,1.);');};
+ diffuseColor.rgb*=mix(1.,.82+.3*wxMac,uWxK);vec3 wxG=mix(vec3(dot(uWxC,vec3(.33))),uWxC,.55)*1.6;diffuseColor.rgb=mix(diffuseColor.rgb,diffuseColor.rgb*wxG,clamp((wxBase*.7+wxSt*.2+wxTop)*uWxK,0.,.8));`)
+  .replace('#include <roughnessmap_fragment>','#include <roughnessmap_fragment>\n roughnessFactor=clamp(roughnessFactor+(wxBase*.08-wxSt*.12)*uWxK,.04,1.);')
+  .replace('#include <aomap_fragment>','#include <aomap_fragment>\n {float wa=mix(1.,mix(.42,1.,smoothstep(0.,1.6,vWxP.y)),step(abs(vWxN.y),.5));reflectedLight.indirectDiffuse*=wa;reflectedLight.directDiffuse*=mix(1.,wa,.3);reflectedLight.indirectSpecular*=wa;}');};
  m.customProgramCacheKey=()=>'wx'+k;}
 
 /* ================= scene construction ================= */
@@ -236,8 +238,9 @@ export function buildScene(L,TX,q){const look=L.look;L.timeU=L.timeU||{value:0};
  // ----- terrain: flat play area + sculpted surroundings
  const T=L.terrain,ext=L.half*2+520,seg=q>=2?160:110;const gg=new THREE.PlaneGeometry(ext,ext,seg,seg);gg.rotateX(-PI/2);const gp=gg.attributes.position,guv=gg.attributes.uv,gcol=new Float32Array(gp.count*3);
  const hn=(x,z)=>Math.sin(x*.031+1.3)*Math.cos(z*.027)*.5+Math.sin(x*.071+z*.053)*.3+Math.sin(x*.13-z*.11+2)*.15+.5;
- for(let i=0;i<gp.count;i++){const x=gp.getX(i),z=gp.getZ(i);const e=Math.max(Math.abs(x),Math.abs(z))-L.half-4;let y=0;
-  if(e>0&&!(T.seaSide&&T.seaSide(x,z))){const k=Math.min(1,e/(T.ramp||60));y=k*k*(T.height||20)*(.45+hn(x,z)*.9)+(T.dunes?Math.sin(x*.09+z*.04)*Math.min(1,e/20)*2.5:0);}
+ L.tY=(x,z)=>{const e=Math.max(Math.abs(x),Math.abs(z))-L.half-4;if(e<=0||(T.seaSide&&T.seaSide(x,z)))return 0;const k=Math.min(1,e/(T.ramp||60));return k*k*(T.height||20)*(.45+hn(x,z)*.9)+(T.dunes?Math.sin(x*.09+z*.04)*Math.min(1,e/20)*2.5:0);};
+ for(let i=0;i<gp.count;i++){const x=gp.getX(i),z=gp.getZ(i);let y=0;
+  y=L.tY(x,z);
   if(T.seaSide&&T.seaSide(x,z))y=-2.2;gp.setY(i,y);guv.setXY(i,x/7,-z/7);const v=.86+hn(x*3,z*3)*.22;gcol[i*3]=gcol[i*3+1]=gcol[i*3+2]=v;}
  gg.setAttribute('color',new THREE.Float32BufferAttribute(gcol,3));gg.computeVertexNormals();
  const base=TX[T.base],alt=TX[T.alt||T.base],pathT=TX[T.path||'dirt'];const splat=L.splatTex;
@@ -252,13 +255,14 @@ float th(vec2 p){return fract(sin(dot(p,vec2(127.1,311.7)))*43758.5453);}float t
  vec2 su=(vWP.xz+uHalf)/(2.*uHalf);vec4 sp=texture2D(uSplat,vec2(su.x,1.-su.y));float inb=step(0.,su.x)*step(su.x,1.)*step(0.,su.y)*step(su.y,1.);
  float pm=smoothstep(.15,.6,sp.r+(tn(vWP.xz*.6)-.5)*.35)*inb;col=mix(col,tc,pm);col=mix(col,tb,sp.g*inb);
  col.rgb*=.86+.28*tn(vWP.xz*.012);diffuseColor*=col;`);};
+ const ct=q>0?contactMap(L):null;if(ct){withContact(gm,ct);withContact(mats.tile,ct,.7);}
  const ground=new THREE.Mesh(gg,gm);ground.receiveShadow=true;G.add(ground);
  // water
  L.water=null;if(T.water){const wm=std({color:T.water.c,roughness:.06,metalness:.2,normalMap:TX.waterN,normalScale:new THREE.Vector2(.35,.35),transparent:true,opacity:.92});wm.normalMap=TX.waterN.clone();wm.normalMap.needsUpdate=true;wm.normalMap.repeat.set(80,80);
   const w=new THREE.Mesh(new THREE.PlaneGeometry(1400,1400),wm);w.rotation.x=-PI/2;w.position.y=T.water.y;G.add(w);L.water=wm;}
  // ----- roads + pads + painted lines
  for(const r of L.roads){const len=r.len,w=r.w,t=TX[r.kind]||TX.asphalt;const m=std({map:t.map.clone(),normalMap:t.normalMap.clone(),roughness:.85,polygonOffset:true,polygonOffsetFactor:-2,color:r.col??0xffffff});m.map.needsUpdate=m.normalMap.needsUpdate=true;
-  m.map.repeat.set(w/6,len/6);m.normalMap.repeat.set(w/6,len/6);const me=new THREE.Mesh(new THREE.PlaneGeometry(w,len),m);me.rotation.set(-PI/2,0,r.rot||0);me.position.set(r.x,.02,r.z);me.receiveShadow=true;G.add(me);
+  m.map.repeat.set(w/6,len/6);m.normalMap.repeat.set(w/6,len/6);if(ct)withContact(m,ct);const me=new THREE.Mesh(new THREE.PlaneGeometry(w,len),m);me.rotation.set(-PI/2,0,r.rot||0);me.position.set(r.x,.02,r.z);me.receiveShadow=true;G.add(me);
   if(r.lines){const lm=new THREE.MeshStandardMaterial({color:r.lines,roughness:.7,polygonOffset:true,polygonOffsetFactor:-4});const parts=[];for(let s=-len/2+2;s<len/2-2;s+=6)parts.push({geo:new THREE.PlaneGeometry(.18,3),m:M4(0,0,s+1.5)});if(parts.length){const lg=merge(parts);lg.rotateX(-PI/2);const lme=new THREE.Mesh(lg,lm);lme.rotation.y=r.rot||0;lme.position.set(r.x,.03,r.z);lme.receiveShadow=true;G.add(lme);}}}
  for(const p of L.pads){const m=std({map:TX.pad,roughness:.8,polygonOffset:true,polygonOffsetFactor:-3});const me=new THREE.Mesh(new THREE.PlaneGeometry(p.r*2,p.r*2),m);me.rotation.x=-PI/2;me.position.set(p.x,(p.y||0)+.03,p.z);me.receiveShadow=true;G.add(me);}
  for(const p of L.paint){const m=std({color:p.c,roughness:.7,polygonOffset:true,polygonOffsetFactor:-4,map:p.map||null,transparent:!!p.map});const me=new THREE.Mesh(new THREE.PlaneGeometry(p.w,p.d),m);me.rotation.set(-PI/2,0,p.rot||0);me.position.set(p.x,.035,p.z);me.receiveShadow=true;G.add(me);}
@@ -362,6 +366,8 @@ float th(vec2 p){return fract(sin(dot(p,vec2(127.1,311.7)))*43758.5453);}float t
  if(q>0&&TX.decals)G.add(buildDecals(L,TX,q));
  // ----- sun shafts through the dusty air + drifting motes: HIGH only
  if(q>=2)G.add(buildShafts(L,look));
+ // ----- street dressing, window surrounds, skyline, haze: MEDIUM and up
+ if(q>0)G.add(buildDressing(L,TX,q,look));
  return{group:G,lights};}
 
 /* ================= decals ================= */

diff --git a/frontline/maps.js b/frontline/maps.js
@@ -5,10 +5,10 @@ const PI=Math.PI,H=PI/2;
 
 // lighting / atmosphere per time of day (tuned for readable silhouettes, no murk)
 export const LOOK={
- noon:{name:'HIGH NOON',sky:{top:0x3a7ccc,mid:0x8cb8e6,hor:0xe8dfcf,cloud:0xffffff,clouds:.32,sunK:1.1,ground:0xd8c8a8},sun:{dir:[.42,.84,.34],c:0xfff0dc,i:3.3},hemi:{s:0xc8def6,g:0xc8a878,i:1.2},fog:{c:0xe4d8c4,d:.0042},exp:.9,tint:0xfff8f0,sat:1.08,env:.75,amb:'wind',grime:0x6a5236,dust:1.1},
- golden:{name:'GOLDEN HOUR',sky:{top:0x30508e,mid:0xc28a78,hor:0xffc28a,cloud:0xffd2b0,clouds:.42,sunK:1.5,ground:0x8a6a58,sunSize:.0013},sun:{dir:[-.72,.3,-.62],c:0xffb27a,i:3.4},hemi:{s:0xb8cae8,g:0x8a6a56,i:1.75},fog:{c:0xe6b896,d:.0045},exp:1.05,tint:0xfff2e6,sat:1.08,env:.85,amb:'harbor',grime:0x4a3a30,dust:.9},
- snow:{name:'COLD MORNING',sky:{top:0x3a76c4,mid:0x9ec2e8,hor:0xe8eff7,cloud:0xffffff,clouds:.5,sunK:1.05,ground:0xdfe8f2},sun:{dir:[.58,.44,-.68],c:0xffe6c8,i:2.9},hemi:{s:0xd4e4ff,g:0x9ea8b8,i:1.05},fog:{c:0xdde6f0,d:.0045},exp:.78,tint:0xf6f8ff,sat:1.04,env:.8,amb:'snow',grime:0x3a3c40,dust:.7},
- dusk:{name:'BLUE HOUR',sky:{top:0x22305e,mid:0x6c5e94,hor:0xff9c6a,cloud:0xb090b0,clouds:.38,sunK:1.3,ground:0x3a3040,sunSize:.0016},sun:{dir:[.86,.12,.42],c:0xffa068,i:2.2},hemi:{s:0xa4b0e6,g:0x54444c,i:1.55},fog:{c:0x84769a,d:.0072},exp:1.18,tint:0xf6eeff,sat:1.06,env:.65,lampsOn:true,amb:'town',grime:0x3a3a34,dust:.6}};
+ noon:{name:'HIGH NOON',sky:{top:0x3a7ccc,mid:0x8cb8e6,hor:0xe8dfcf,cloud:0xffffff,clouds:.32,sunK:1.1,ground:0xd8c8a8},sun:{dir:[.42,.84,.34],c:0xfff0dc,i:3.3},hemi:{s:0xc8def6,g:0xc8a878,i:1.2},fog:{c:0xe4d8c4,d:.0042},exp:.9,tint:0xfff8f0,sat:1.08,env:.75,amb:'wind',grime:0x6a5236,dust:1.1,kk:1.22,hk:.68,haze:.9,fin:{sh:[.95,.97,1.05],hi:[1.08,1.0,.87],con:.3,lift:[.012,.008,0],gam:1.05}},
+ golden:{name:'GOLDEN HOUR',sky:{top:0x30508e,mid:0xc28a78,hor:0xffc28a,cloud:0xffd2b0,clouds:.42,sunK:1.5,ground:0x8a6a58,sunSize:.0013},sun:{dir:[-.72,.3,-.62],c:0xffb27a,i:3.4},hemi:{s:0xb8cae8,g:0x8a6a56,i:1.75},fog:{c:0xe6b896,d:.0045},exp:1.05,tint:0xfff2e6,sat:1.08,env:.85,amb:'harbor',grime:0x4a3a30,dust:.9,kk:1.18,hk:.7,haze:1,fin:{sh:[.88,.92,1.12],hi:[1.1,.99,.86],con:.3,lift:[.01,0,.016],gam:1.06}},
+ snow:{name:'COLD MORNING',sky:{top:0x3a76c4,mid:0x9ec2e8,hor:0xe8eff7,cloud:0xffffff,clouds:.5,sunK:1.05,ground:0xdfe8f2},sun:{dir:[.58,.44,-.68],c:0xffe6c8,i:2.9},hemi:{s:0xd4e4ff,g:0x9ea8b8,i:1.05},fog:{c:0xdde6f0,d:.0045},exp:.78,tint:0xf2f6ff,sat:.97,env:.8,amb:'snow',grime:0x3a3c40,dust:.7,kk:1.2,hk:.75,haze:1.1,fin:{sh:[.9,.97,1.13],hi:[.99,1.01,1.05],con:.28,lift:[0,.006,.016],gam:1.03}},
+ dusk:{name:'BLUE HOUR',sky:{top:0x22305e,mid:0x6c5e94,hor:0xff9c6a,cloud:0xb090b0,clouds:.38,sunK:1.3,ground:0x3a3040,sunSize:.0016},sun:{dir:[.86,.12,.42],c:0xffa068,i:2.2},hemi:{s:0xa4b0e6,g:0x54444c,i:1.55},fog:{c:0x84769a,d:.0072},exp:1.3,tint:0xf6eeff,sat:1.06,env:.65,lampsOn:true,amb:'town',grime:0x3a3a34,dust:.6,kk:1.1,hk:.82,haze:1.15,fin:{sh:[.84,.9,1.18],hi:[1.15,1.0,.86],con:.32,lift:[.004,0,.016],gam:1.08}}};
 
 // splat map (R = path texture, G = alt texture) painted in world space
 function splat(L,draw){const S=256,c=document.createElement('canvas');c.width=c.height=S;const x=c.getContext('2d');x.fillStyle='#000';x.fillRect(0,0,S,S);const k=S/(L.half*2);
@@ -59,7 +59,7 @@ function sandgate(){const L=new Level({id:'sandgate',name:'SANDGATE',half:60,loo
  crates(L,-24,27,3);crates(L,24,-28,3);crates(L,-46,-26,2);crates(L,46,26,2);crates(L,-10,-26,2);crates(L,12,26,2);crates(L,30,-50,3);crates(L,-30,50,3);
  for(const[x,z]of[[-36,28],[36,-28],[-18,-50],[18,50],[-52,-50],[52,50]])L.prop('barrel',x,z,0,{col:[0x4a6a3a,0xa83a2a,0x2a5a8a][(x+z)&1]});
  for(const[x,z]of[[-30,49],[24,-52],[-46,-52],[50,52],[-16,10],[16,-10]])L.prop('palm',x,z,L.rnd()*6,{free:true,s:.85+L.rnd()*.3});
- L.prop('car',-36,-2,0,{col:0xe8e0d0});L.prop('car',33,18,H,{col:0x3a3a40});
+ L.prop('car',-36,-2,0,{col:0xe8e0d0});L.prop('car',33,18,H,{col:0x3a3a40});L.prop('car',4.4,37.5,PI+.04,{col:0xd8d0c0});L.prop('pickup',-4.3,-38,-.03,{col:0x6a5a48});
  for(const[x,z,r]of[[-4.6,-18,0],[4.6,18,PI],[-4.6,36,0],[4.6,-36,PI]])L.lamp(x,z,r,false);
  // outside the walls: dunes, shrubs, rocks
  for(let i=0;i<40;i++){const a=L.rnd()*6.28,r=66+L.rnd()*60;L.props.push({kind:L.rnd()<.5?'shrub':'rock',x:Math.cos(a)*r,z:Math.sin(a)*r,y:0,rot:L.rnd()*6,s:.8+L.rnd()*1.2,col:null});}

diff --git a/frontline/fx.js b/frontline/fx.js
@@ -61,11 +61,11 @@ export class Debris{constructor(scene,n=60){this.n=n;this.list=[];const g=new TH
 export class Brass{constructor(scene,n=48){this.n=n;this.list=[];const g=new THREE.CylinderGeometry(.0045,.0045,.024,7);g.rotateX(Math.PI/2);
   this.mesh=new THREE.InstancedMesh(g,new THREE.MeshStandardMaterial({color:0xd8a848,roughness:.3,metalness:1}),n);this.mesh.count=0;this.mesh.frustumCulled=false;scene.add(this.mesh);
   const mg=new THREE.BoxGeometry(.03,.16,.07);mg.translate(0,-.06,0);this.mags=new THREE.InstancedMesh(mg,new THREE.MeshStandardMaterial({color:0x2c2e32,roughness:.55,metalness:.4}),8);this.mags.count=0;this.mags.castShadow=true;this.mags.frustumCulled=false;scene.add(this.mags);this.ml=[];
-  this.m=new THREE.Matrix4();this.q=new THREE.Quaternion();this.e=new THREE.Euler();this.one=new V(1,1,1);this.onBounce=null;}
+  this.m=new THREE.Matrix4();this.q=new THREE.Quaternion();this.e=new THREE.Euler();this.one=new V(1,1,1);this.onBounce=null;this.floor=null;}
  eject(p,v){if(this.list.length>=this.n)this.list.shift();this.list.push({p:p.clone(),v:v.clone(),r:new V(Math.random()*6,Math.random()*6,0),w:new V((Math.random()-.5)*30,(Math.random()-.5)*30,0),t:0,b:0});}
  drop(p,v,r){if(this.ml.length>=8)this.ml.shift();this.ml.push({p:p.clone(),v:v.clone(),r:r.clone(),w:new V((Math.random()-.5)*6,(Math.random()-.5)*3,(Math.random()-.5)*6),t:0,b:0});}
  step(list,dt,life,rest){for(let i=list.length-1;i>=0;i--){const c=list[i];c.t+=dt;if(c.t>life){list.splice(i,1);continue;}if(c.rest)continue;c.v.y-=9.8*dt;c.p.addScaledVector(c.v,dt);c.r.addScaledVector(c.w,dt);
-   if(c.p.y<rest){c.p.y=rest;if(c.v.y<-.6&&c.b<3&&this.onBounce)this.onBounce(c.p,list===this.list);c.b++;c.v.y*=-.35;c.v.x*=.5;c.v.z*=.5;c.w.multiplyScalar(.5);if(Math.abs(c.v.y)<.3){c.rest=true;c.r.x=list===this.list?Math.PI/2*0:Math.PI/2;}}}}
+   const fl=(this.floor?this.floor(c.p.x,c.p.z,c.p.y):0)+rest;if(c.p.y<fl){c.p.y=fl;if(c.v.y<-.6&&c.b<3&&this.onBounce)this.onBounce(c.p,list===this.list);c.b++;c.v.y*=-.35;c.v.x*=.5;c.v.z*=.5;c.w.multiplyScalar(.5);if(Math.abs(c.v.y)<.3){c.rest=true;c.r.x=list===this.list?Math.PI/2*0:Math.PI/2;}}}}
  update(dt){this.step(this.list,dt,6,.005);this.step(this.ml,dt,10,.035);let k=0;for(const c of this.list){const s=c.t>5?(6-c.t):1;this.m.compose(c.p,this.q.setFromEuler(this.e.set(c.r.x,c.r.y,c.r.z)),this.one.set(s,s,s));this.mesh.setMatrixAt(k++,this.m);}this.mesh.count=k;this.mesh.visible=k>0;this.mesh.instanceMatrix.needsUpdate=true;
   k=0;for(const c of this.ml){const s=c.t>9?(10-c.t):1;this.m.compose(c.p,this.q.setFromEuler(this.e.set(c.r.x,c.r.y,c.r.z)),this.one.set(s,s,s));this.mags.setMatrixAt(k++,this.m);}this.mags.count=k;this.mags.visible=k>0;this.mags.instanceMatrix.needsUpdate=true;}
  clear(){this.list.length=0;this.ml.length=0;this.mesh.count=0;this.mags.count=0;this.mesh.visible=this.mags.visible=false;}}

diff --git a/frontline/pbr.js b/frontline/pbr.js
@@ -85,7 +85,7 @@ export function makePBR(){seed=4242;const f=fields(),S=512,B=f.big,M=f.mid,Fi=f.
  /* ---------- SLAB paving: chamfered flagstones with tint drift and stains ---------- */
  out.slab=surface(S,(i,j,o)=>{const k=j*S+i,cs=128,cx=Math.floor(i/cs),cy=Math.floor(j/cs),u=i%cs,v=j%cs,e=Math.min(u,cs-u,v,cs-v)-1.5,id=hash(cx,cy);const inS=sm(0,3,e);
   const b=at(B,S,i,j,60,60),fi=at(Fi,S,i,j,9,30),m=at(M,S,i,j,200,40);let val=(150+id*34)*(.9+b*.16)+(fi-.5)*16;const stain=sm(.62,.8,m)*.25;val*=1-stain;
-  const g=val*inS+70*(1-inS);o.r=g;o.g=g*.985;o.b=g*.955;o.h=.25+inS*(.6+(fi-.5)*.05);o.ro=inS?.78+(fi-.5)*.1+stain*.1:.95;},2.4);
+  const lip=sm(8,1,e)*.08;const g=val*(1-lip)*inS+val*.66*(1-inS);o.r=g;o.g=g*.985;o.b=g*.955;o.h=.25+inS*(.6+(fi-.5)*.05);o.ro=inS?.78+(fi-.5)*.1+stain*.1:.95;},2.4);
  /* ---------- ROOF (flat): bitumen membrane with gravel and seam lines ---------- */
  out.roof=surface(256,(i,j,o)=>{const fi=at(Fi,S,i*2,j*2,30,0),m=at(M,S,i*2,j*2,0,60);const seam=sm(1.5,0,Math.abs((j%64)-32)-30);let v=88+fi*40+(m-.5)*18;v*=1-seam*.3;
   o.r=v;o.g=v*.98;o.b=v*.95;o.h=.5+fi*.3-seam*.1;o.ro=.9+(fi-.5)*.1;},2.5);
